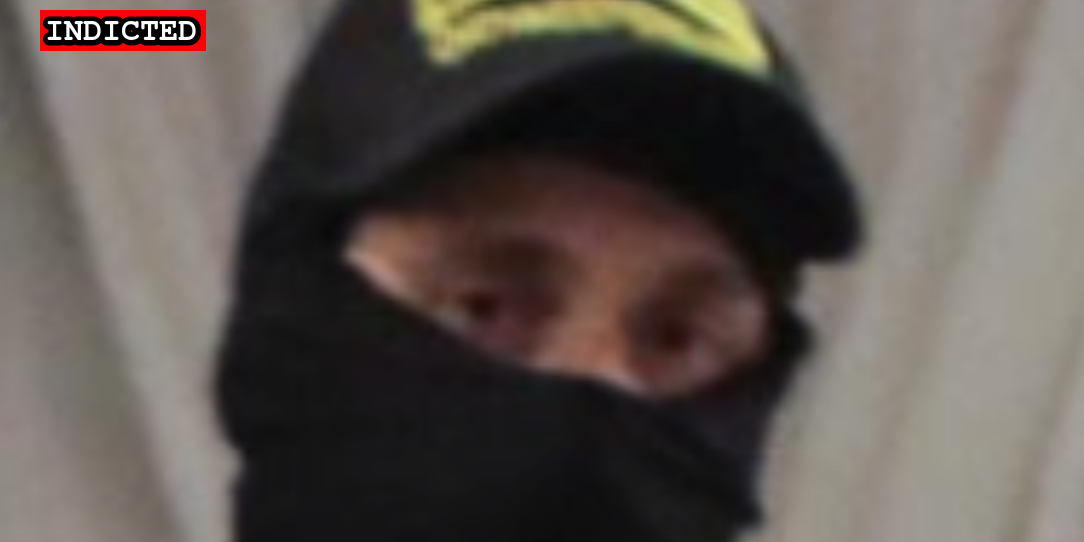
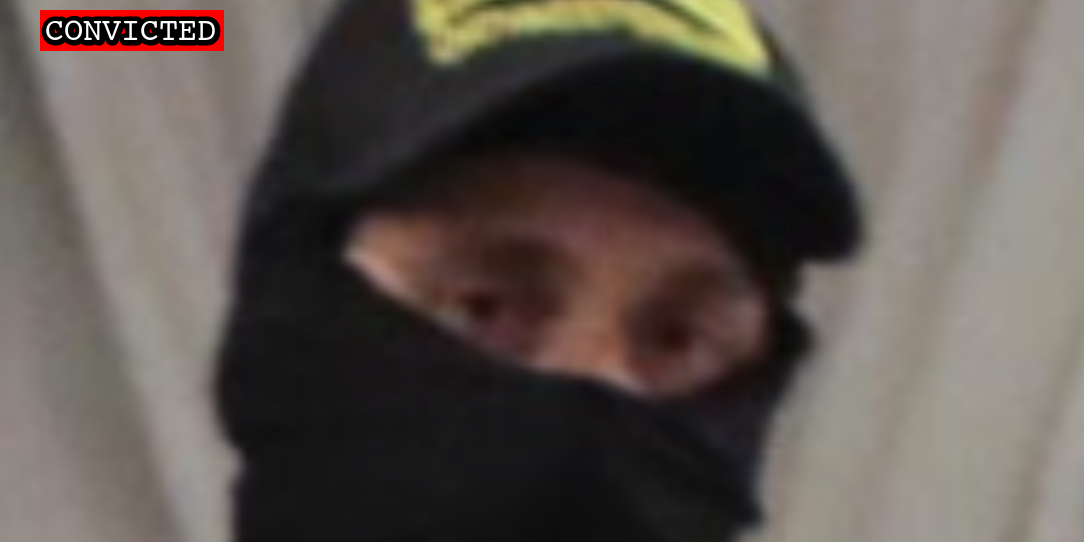
Seditious conspiracy

Changed region(s): [[0.0304, 0.0, 0.2131, 0.1181]]

diff --git a/docs/_suspects/brian-ulrich.md b/docs/_suspects/brian-ulrich.md
@@ -4,15 +4,17 @@ lastName: Ulrich
 hashtag: FlagOK
 aka:
 residence: Texas
-status: Indicted
+status: Convicted
 date: 2021-08-04
 charged: 2021-08-04
 indicted: 2021-08-04
-convicted:
+convicted: 2022-04-29
+acquitted:
 sentenced:
 dismissed:
 deceased:
 plea_hearing: 2022-04-29
+trial_date:
 sentencing:
 age: 43
 occupation:
@@ -34,6 +36,14 @@ published: true
 caseNumber: 1:22-cr-15
 videos:
 charges:
+  - code: 18 USC § 2384
+    title: Seditious Conspiracy
+    url: https://www.law.cornell.edu/uscode/text/18/2384
+    felony: true
+  - code: 18 USC § 1512(k)
+    title: Conspiracy to Obstruct an Official Proceeding
+    url: https://www.law.cornell.edu/uscode/text/18/1512
+    felony: true
 sentence:
 ---
 
